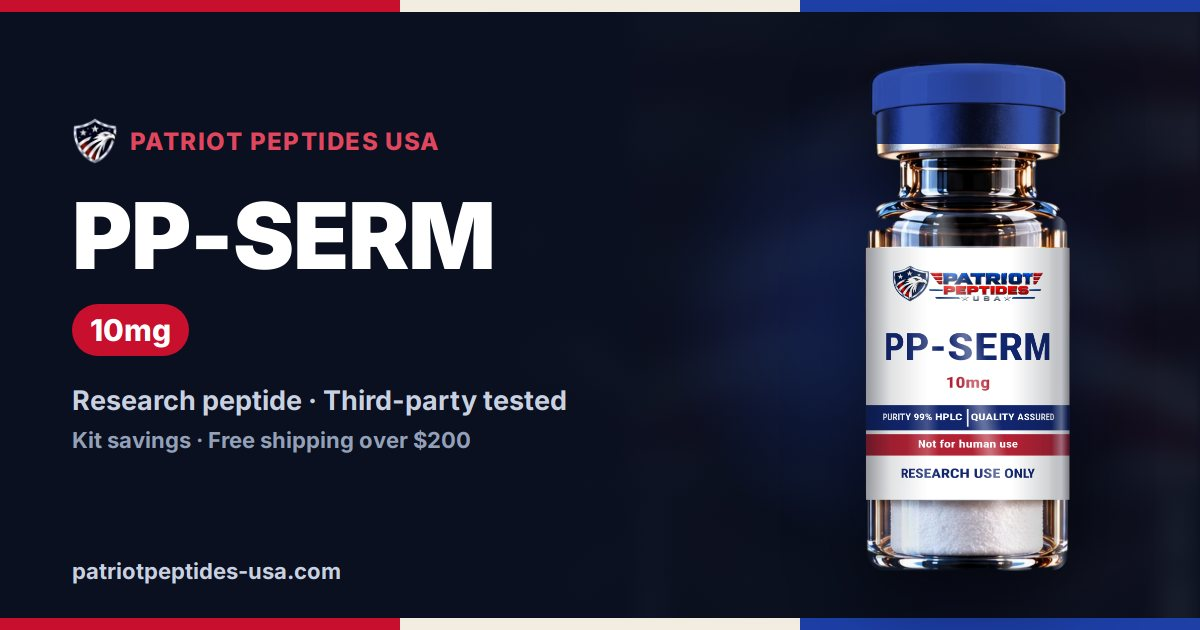
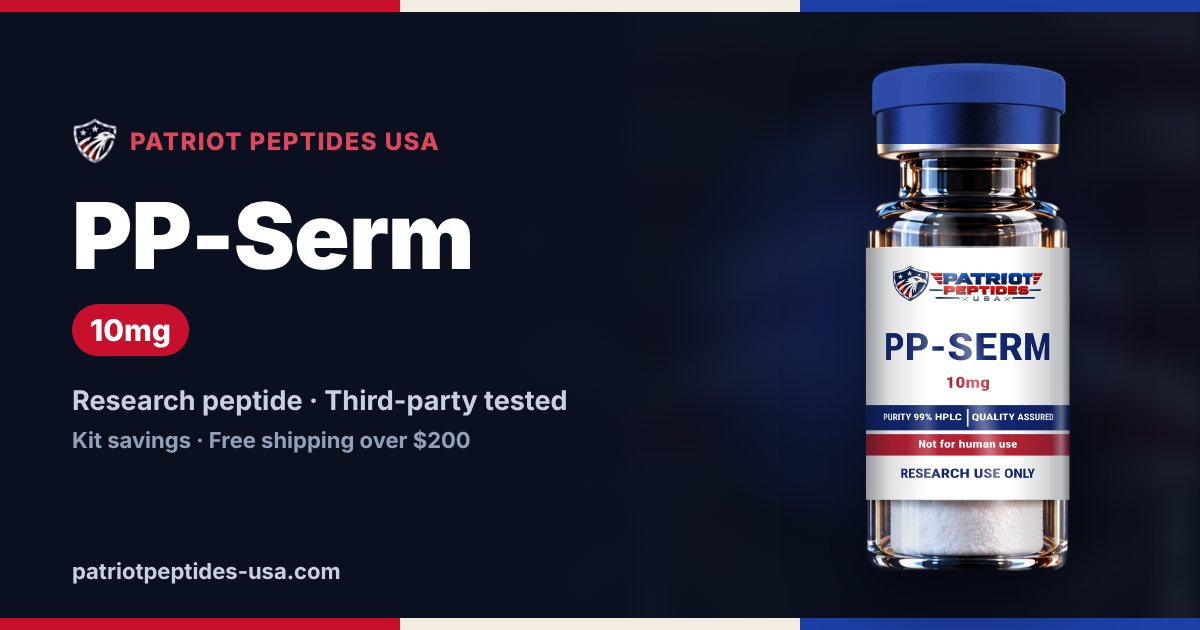
Staging: partner routing fixes
Claude-Session: https://claude.ai/code/session_016xKiGwkz8pkPX8D9aV9uTe

diff --git a/staging/pp-serm-pp-serm-10mg.html b/staging/pp-serm-pp-serm-10mg.html
@@ -1,14 +1,14 @@
 <!doctype html>
 <html lang="en"><head><meta charset="utf-8"><meta name="viewport" content="width=device-width,initial-scale=1">
-<title>PP-SERM 10mg | Patriot Peptides USA</title>
-<meta name="description" content="PP-SERM 10mg research peptide from Patriot Peptides USA. Third-party lab report on file, kit savings, free shipping over $200 and one-tap Venmo checkout. For research use only.">
+<title>PP-Serm 10mg | Patriot Peptides USA</title>
+<meta name="description" content="PP-Serm 10mg research peptide from Patriot Peptides USA. Third-party lab report on file, kit savings, free shipping over $200 and one-tap Venmo checkout. For research use only.">
 <meta name="robots" content="noindex,follow">
 <link rel="canonical" href="https://www.patriotpeptides-usa.com/product.html?key=PP-SERM-10MG">
 <meta property="og:type" content="product"><meta property="og:site_name" content="Patriot Peptides USA"><meta property="og:locale" content="en_US"><meta property="og:url" content="https://www.patriotpeptides-usa.com/pp-serm-pp-serm-10mg.html">
-<meta property="og:title" content="PP-SERM 10mg | Patriot Peptides USA"><meta property="og:description" content="PP-SERM 10mg research peptide from Patriot Peptides USA. Third-party lab report on file, kit savings, free shipping over $200 and one-tap Venmo checkout. For research use only.">
-<meta property="og:image" content="https://www.patriotpeptides-usa.com/img/share/pp-serm-pp-serm-10mg.jpg"><meta property="og:image:secure_url" content="https://www.patriotpeptides-usa.com/img/share/pp-serm-pp-serm-10mg.jpg"><meta property="og:image:type" content="image/jpeg"><meta property="og:image:width" content="1200"><meta property="og:image:height" content="630"><meta property="og:image:alt" content="PP-SERM 10mg | Patriot Peptides USA">
-<meta name="twitter:card" content="summary_large_image"><meta name="twitter:title" content="PP-SERM 10mg | Patriot Peptides USA"><meta name="twitter:description" content="PP-SERM 10mg research peptide from Patriot Peptides USA. Third-party lab report on file, kit savings, free shipping over $200 and one-tap Venmo checkout. For research use only."><meta name="twitter:image" content="https://www.patriotpeptides-usa.com/img/share/pp-serm-pp-serm-10mg.jpg">
+<meta property="og:title" content="PP-Serm 10mg | Patriot Peptides USA"><meta property="og:description" content="PP-Serm 10mg research peptide from Patriot Peptides USA. Third-party lab report on file, kit savings, free shipping over $200 and one-tap Venmo checkout. For research use only.">
+<meta property="og:image" content="https://www.patriotpeptides-usa.com/img/share/pp-serm-pp-serm-10mg.jpg"><meta property="og:image:secure_url" content="https://www.patriotpeptides-usa.com/img/share/pp-serm-pp-serm-10mg.jpg"><meta property="og:image:type" content="image/jpeg"><meta property="og:image:width" content="1200"><meta property="og:image:height" content="630"><meta property="og:image:alt" content="PP-Serm 10mg | Patriot Peptides USA">
+<meta name="twitter:card" content="summary_large_image"><meta name="twitter:title" content="PP-Serm 10mg | Patriot Peptides USA"><meta name="twitter:description" content="PP-Serm 10mg research peptide from Patriot Peptides USA. Third-party lab report on file, kit savings, free shipping over $200 and one-tap Venmo checkout. For research use only."><meta name="twitter:image" content="https://www.patriotpeptides-usa.com/img/share/pp-serm-pp-serm-10mg.jpg">
 <meta http-equiv="refresh" content="0; url=product.html?key=PP-SERM-10MG">
 <script>location.replace("product.html?key=PP-SERM-10MG" + (location.search ? "&" + location.search.slice(1) : "") + location.hash);</script>
 <style>body{margin:0;background:#0A1020;color:#F3EDE1;font:16px system-ui,sans-serif;display:grid;place-items:center;min-height:100vh}a{color:#fff}</style>
-</head><body><p>Opening <a href="product.html?key=PP-SERM-10MG">PP-SERM at Patriot Peptides USA</a>…</p></body></html>
+</head><body><p>Opening <a href="product.html?key=PP-SERM-10MG">PP-Serm at Patriot Peptides USA</a>…</p></body></html>

diff --git a/staging/pp-serm-pp-serm-20mg.html b/staging/pp-serm-pp-serm-20mg.html
@@ -1,14 +1,14 @@
 <!doctype html>
 <html lang="en"><head><meta charset="utf-8"><meta name="viewport" content="width=device-width,initial-scale=1">
-<title>PP-SERM 20mg | Patriot Peptides USA</title>
-<meta name="description" content="PP-SERM 20mg research peptide from Patriot Peptides USA. Third-party lab report on file, kit savings, free shipping over $200 and one-tap Venmo checkout. For research use only.">
+<title>PP-Serm 20mg | Patriot Peptides USA</title>
+<meta name="description" content="PP-Serm 20mg research peptide from Patriot Peptides USA. Third-party lab report on file, kit savings, free shipping over $200 and one-tap Venmo checkout. For research use only.">
 <meta name="robots" content="noindex,follow">
 <link rel="canonical" href="https://www.patriotpeptides-usa.com/product.html?key=PP-SERM-20MG">
 <meta property="og:type" content="product"><meta property="og:site_name" content="Patriot Peptides USA"><meta property="og:locale" content="en_US"><meta property="og:url" content="https://www.patriotpeptides-usa.com/pp-serm-pp-serm-20mg.html">
-<meta property="og:title" content="PP-SERM 20mg | Patriot Peptides USA"><meta property="og:description" content="PP-SERM 20mg research peptide from Patriot Peptides USA. Third-party lab report on file, kit savings, free shipping over $200 and one-tap Venmo checkout. For research use only.">
-<meta property="og:image" content="https://www.patriotpeptides-usa.com/img/share/pp-serm-pp-serm-20mg.jpg"><meta property="og:image:secure_url" content="https://www.patriotpeptides-usa.com/img/share/pp-serm-pp-serm-20mg.jpg"><meta property="og:image:type" content="image/jpeg"><meta property="og:image:width" content="1200"><meta property="og:image:height" content="630"><meta property="og:image:alt" content="PP-SERM 20mg | Patriot Peptides USA">
-<meta name="twitter:card" content="summary_large_image"><meta name="twitter:title" content="PP-SERM 20mg | Patriot Peptides USA"><meta name="twitter:description" content="PP-SERM 20mg research peptide from Patriot Peptides USA. Third-party lab report on file, kit savings, free shipping over $200 and one-tap Venmo checkout. For research use only."><meta name="twitter:image" content="https://www.patriotpeptides-usa.com/img/share/pp-serm-pp-serm-20mg.jpg">
+<meta property="og:title" content="PP-Serm 20mg | Patriot Peptides USA"><meta property="og:description" content="PP-Serm 20mg research peptide from Patriot Peptides USA. Third-party lab report on file, kit savings, free shipping over $200 and one-tap Venmo checkout. For research use only.">
+<meta property="og:image" content="https://www.patriotpeptides-usa.com/img/share/pp-serm-pp-serm-20mg.jpg"><meta property="og:image:secure_url" content="https://www.patriotpeptides-usa.com/img/share/pp-serm-pp-serm-20mg.jpg"><meta property="og:image:type" content="image/jpeg"><meta property="og:image:width" content="1200"><meta property="og:image:height" content="630"><meta property="og:image:alt" content="PP-Serm 20mg | Patriot Peptides USA">
+<meta name="twitter:card" content="summary_large_image"><meta name="twitter:title" content="PP-Serm 20mg | Patriot Peptides USA"><meta name="twitter:description" content="PP-Serm 20mg research peptide from Patriot Peptides USA. Third-party lab report on file, kit savings, free shipping over $200 and one-tap Venmo checkout. For research use only."><meta name="twitter:image" content="https://www.patriotpeptides-usa.com/img/share/pp-serm-pp-serm-20mg.jpg">
 <meta http-equiv="refresh" content="0; url=product.html?key=PP-SERM-20MG">
 <script>location.replace("product.html?key=PP-SERM-20MG" + (location.search ? "&" + location.search.slice(1) : "") + location.hash);</script>
 <style>body{margin:0;background:#0A1020;color:#F3EDE1;font:16px system-ui,sans-serif;display:grid;place-items:center;min-height:100vh}a{color:#fff}</style>
-</head><body><p>Opening <a href="product.html?key=PP-SERM-20MG">PP-SERM at Patriot Peptides USA</a>…</p></body></html>
+</head><body><p>Opening <a href="product.html?key=PP-SERM-20MG">PP-Serm at Patriot Peptides USA</a>…</p></body></html>

diff --git a/staging/pp-tesa-pp-tesa-10mg.html b/staging/pp-tesa-pp-tesa-10mg.html
@@ -1,14 +1,14 @@
 <!doctype html>
 <html lang="en"><head><meta charset="utf-8"><meta name="viewport" content="width=device-width,initial-scale=1">
-<title>PP-TESA 10mg | Patriot Peptides USA</title>
-<meta name="description" content="PP-TESA 10mg research peptide from Patriot Peptides USA. Third-party lab report on file, kit savings, free shipping over $200 and one-tap Venmo checkout. For research use only.">
+<title>PP-Tesa 10mg | Patriot Peptides USA</title>
+<meta name="description" content="PP-Tesa 10mg research peptide from Patriot Peptides USA. Third-party lab report on file, kit savings, free shipping over $200 and one-tap Venmo checkout. For research use only.">
 <meta name="robots" content="noindex,follow">
 <link rel="canonical" href="https://www.patriotpeptides-usa.com/product.html?key=PP-TESA-10MG">
 <meta property="og:type" content="product"><meta property="og:site_name" content="Patriot Peptides USA"><meta property="og:locale" content="en_US"><meta property="og:url" content="https://www.patriotpeptides-usa.com/pp-tesa-pp-tesa-10mg.html">
-<meta property="og:title" content="PP-TESA 10mg | Patriot Peptides USA"><meta property="og:description" content="PP-TESA 10mg research peptide from Patriot Peptides USA. Third-party lab report on file, kit savings, free shipping over $200 and one-tap Venmo checkout. For research use only.">
-<meta property="og:image" content="https://www.patriotpeptides-usa.com/img/share/pp-tesa-pp-tesa-10mg.jpg"><meta property="og:image:secure_url" content="https://www.patriotpeptides-usa.com/img/share/pp-tesa-pp-tesa-10mg.jpg"><meta property="og:image:type" content="image/jpeg"><meta property="og:image:width" content="1200"><meta property="og:image:height" content="630"><meta property="og:image:alt" content="PP-TESA 10mg | Patriot Peptides USA">
-<meta name="twitter:card" content="summary_large_image"><meta name="twitter:title" content="PP-TESA 10mg | Patriot Peptides USA"><meta name="twitter:description" content="PP-TESA 10mg research peptide from Patriot Peptides USA. Third-party lab report on file, kit savings, free shipping over $200 and one-tap Venmo checkout. For research use only."><meta name="twitter:image" content="https://www.patriotpeptides-usa.com/img/share/pp-tesa-pp-tesa-10mg.jpg">
+<meta property="og:title" content="PP-Tesa 10mg | Patriot Peptides USA"><meta property="og:description" content="PP-Tesa 10mg research peptide from Patriot Peptides USA. Third-party lab report on file, kit savings, free shipping over $200 and one-tap Venmo checkout. For research use only.">
+<meta property="og:image" content="https://www.patriotpeptides-usa.com/img/share/pp-tesa-pp-tesa-10mg.jpg"><meta property="og:image:secure_url" content="https://www.patriotpeptides-usa.com/img/share/pp-tesa-pp-tesa-10mg.jpg"><meta property="og:image:type" content="image/jpeg"><meta property="og:image:width" content="1200"><meta property="og:image:height" content="630"><meta property="og:image:alt" content="PP-Tesa 10mg | Patriot Peptides USA">
+<meta name="twitter:card" content="summary_large_image"><meta name="twitter:title" content="PP-Tesa 10mg | Patriot Peptides USA"><meta name="twitter:description" content="PP-Tesa 10mg research peptide from Patriot Peptides USA. Third-party lab report on file, kit savings, free shipping over $200 and one-tap Venmo checkout. For research use only."><meta name="twitter:image" content="https://www.patriotpeptides-usa.com/img/share/pp-tesa-pp-tesa-10mg.jpg">
 <meta http-equiv="refresh" content="0; url=product.html?key=PP-TESA-10MG">
 <script>location.replace("product.html?key=PP-TESA-10MG" + (location.search ? "&" + location.search.slice(1) : "") + location.hash);</script>
 <style>body{margin:0;background:#0A1020;color:#F3EDE1;font:16px system-ui,sans-serif;display:grid;place-items:center;min-height:100vh}a{color:#fff}</style>
-</head><body><p>Opening <a href="product.html?key=PP-TESA-10MG">PP-TESA at Patriot Peptides USA</a>…</p></body></html>
+</head><body><p>Opening <a href="product.html?key=PP-TESA-10MG">PP-Tesa at Patriot Peptides USA</a>…</p></body></html>

diff --git a/staging/pp-tesa-pp-tesa-20mg.html b/staging/pp-tesa-pp-tesa-20mg.html
@@ -1,14 +1,14 @@
 <!doctype html>
 <html lang="en"><head><meta charset="utf-8"><meta name="viewport" content="width=device-width,initial-scale=1">
-<title>PP-TESA 20mg | Patriot Peptides USA</title>
-<meta name="description" content="PP-TESA 20mg research peptide from Patriot Peptides USA. Third-party lab report on file, kit savings, free shipping over $200 and one-tap Venmo checkout. For research use only.">
+<title>PP-Tesa 20mg | Patriot Peptides USA</title>
+<meta name="description" content="PP-Tesa 20mg research peptide from Patriot Peptides USA. Third-party lab report on file, kit savings, free shipping over $200 and one-tap Venmo checkout. For research use only.">
 <meta name="robots" content="noindex,follow">
 <link rel="canonical" href="https://www.patriotpeptides-usa.com/product.html?key=PP-TESA-20MG">
 <meta property="og:type" content="product"><meta property="og:site_name" content="Patriot Peptides USA"><meta property="og:locale" content="en_US"><meta property="og:url" content="https://www.patriotpeptides-usa.com/pp-tesa-pp-tesa-20mg.html">
-<meta property="og:title" content="PP-TESA 20mg | Patriot Peptides USA"><meta property="og:description" content="PP-TESA 20mg research peptide from Patriot Peptides USA. Third-party lab report on file, kit savings, free shipping over $200 and one-tap Venmo checkout. For research use only.">
-<meta property="og:image" content="https://www.patriotpeptides-usa.com/img/share/pp-tesa-pp-tesa-20mg.jpg"><meta property="og:image:secure_url" content="https://www.patriotpeptides-usa.com/img/share/pp-tesa-pp-tesa-20mg.jpg"><meta property="og:image:type" content="image/jpeg"><meta property="og:image:width" content="1200"><meta property="og:image:height" content="630"><meta property="og:image:alt" content="PP-TESA 20mg | Patriot Peptides USA">
-<meta name="twitter:card" content="summary_large_image"><meta name="twitter:title" content="PP-TESA 20mg | Patriot Peptides USA"><meta name="twitter:description" content="PP-TESA 20mg research peptide from Patriot Peptides USA. Third-party lab report on file, kit savings, free shipping over $200 and one-tap Venmo checkout. For research use only."><meta name="twitter:image" content="https://www.patriotpeptides-usa.com/img/share/pp-tesa-pp-tesa-20mg.jpg">
+<meta property="og:title" content="PP-Tesa 20mg | Patriot Peptides USA"><meta property="og:description" content="PP-Tesa 20mg research peptide from Patriot Peptides USA. Third-party lab report on file, kit savings, free shipping over $200 and one-tap Venmo checkout. For research use only.">
+<meta property="og:image" content="https://www.patriotpeptides-usa.com/img/share/pp-tesa-pp-tesa-20mg.jpg"><meta property="og:image:secure_url" content="https://www.patriotpeptides-usa.com/img/share/pp-tesa-pp-tesa-20mg.jpg"><meta property="og:image:type" content="image/jpeg"><meta property="og:image:width" content="1200"><meta property="og:image:height" content="630"><meta property="og:image:alt" content="PP-Tesa 20mg | Patriot Peptides USA">
+<meta name="twitter:card" content="summary_large_image"><meta name="twitter:title" content="PP-Tesa 20mg | Patriot Peptides USA"><meta name="twitter:description" content="PP-Tesa 20mg research peptide from Patriot Peptides USA. Third-party lab report on file, kit savings, free shipping over $200 and one-tap Venmo checkout. For research use only."><meta name="twitter:image" content="https://www.patriotpeptides-usa.com/img/share/pp-tesa-pp-tesa-20mg.jpg">
 <meta http-equiv="refresh" content="0; url=product.html?key=PP-TESA-20MG">
 <script>location.replace("product.html?key=PP-TESA-20MG" + (location.search ? "&" + location.search.slice(1) : "") + location.hash);</script>
 <style>body{margin:0;background:#0A1020;color:#F3EDE1;font:16px system-ui,sans-serif;display:grid;place-items:center;min-height:100vh}a{color:#fff}</style>
-</head><body><p>Opening <a href="product.html?key=PP-TESA-20MG">PP-TESA at Patriot Peptides USA</a>…</p></body></html>
+</head><body><p>Opening <a href="product.html?key=PP-TESA-20MG">PP-Tesa at Patriot Peptides USA</a>…</p></body></html>

diff --git a/staging/js/pst-account.js b/staging/js/pst-account.js
@@ -13,7 +13,7 @@
   }
 
   /* ---------------- ACCOUNT ---------------- */
-  let user, profile, orders = [], items = {}, admin = false, mine = [];
+  let user, profile, orders = [], items = {}, admin = false, mine = [], partner = null;
   const stageOf = o => {
     const s = String(o.order_status || o.status || "pending").toLowerCase(), pay = String(o.payment_status || "pending").toLowerCase();
     const pickup = /local pickup/i.test(o.customer_notes || "");
@@ -31,6 +31,7 @@
     root.innerHTML = `<p class="muted">Loading your account…</p>`;
     profile = await P.getProfile(user);
     admin = await P.isAdmin(user).catch(() => false);
+    partner = await P.client().rpc("ppu_my_partner").then(r => r.data || null, () => null); // partners get a button to their portal
     let r = await P.client().from("orders").select("id,order_number,status,order_status,total,subtotal,shipping,tax,payment_status,payment_method,tracking_number,tracking_carrier,customer_notes,created_at,updated_at,send_pepkeep").eq("customer_id", user.id).order("created_at", { ascending: false });
     if (r.error) r = await P.client().from("orders").select("id,order_number,status,total,subtotal,shipping,tax,payment_status,tracking_number,tracking_carrier,created_at").eq("customer_id", user.id).order("created_at", { ascending: false });
     orders = r.data || []; items = {};
@@ -43,7 +44,7 @@
     legacy = await P.client().from("ppu_legacy_orders").select("woo_order,ordered_at,status,total,shipping,payment_method,items").order("ordered_at", { ascending: false }).then(r => r.data || [], () => []); // orders from the old WooCommerce store
     mine = await P.myProducts(await P.myHistory(user)).catch(() => []);
     const due = mine.filter(m => !m.inProgress && m.left <= 7).map(m => ({ days: m.left }));
-    root.innerHTML = `<div class="hello"><img src="img/pst-emblem-96.webp" width="52" height="52" alt=""><div><small>${esc(profile?.customer_number ? "Customer PP-C" + profile.customer_number : "My account")}</small><h1 class="serif" style="font-size:2.2rem;margin:0">Hi, ${esc(P.firstName(profile, user))}</h1></div><button class="btn ghost sm hsign" type="button" data-signout>Sign out</button></div>${admin ? `<a class="ownercta" href="owner.html"><span class="oc-ic">${P.icon("box", 20)}</span><span><b>Open the owner app</b><small>Orders, payments, customers, products</small></span><span class="oc-go">›</span></a>` : ""}
+    root.innerHTML = `<div class="hello"><img src="img/pst-emblem-96.webp" width="52" height="52" alt=""><div><small>${esc(profile?.customer_number ? "Customer PP-C" + profile.customer_number : "My account")}</small><h1 class="serif" style="font-size:2.2rem;margin:0">Hi, ${esc(P.firstName(profile, user))}</h1></div><button class="btn ghost sm hsign" type="button" data-signout>Sign out</button></div>${admin ? `<a class="ownercta" href="owner.html"><span class="oc-ic">${P.icon("box", 20)}</span><span><b>Open the owner app</b><small>Orders, payments, customers, products</small></span><span class="oc-go">›</span></a>` : ""}${partner && partner.status !== "paused" ? `<a class="ownercta" href="vendor.html"><span class="oc-ic">${P.icon("box", 20)}</span><span><b>Open your partner portal</b><small>${esc(partner.tier_name || "Partner")} ${partner.tier === 1 ? "· your code and earnings" : "· your pricing and orders"}</small></span><span class="oc-go">›</span></a>` : ""}
 <div class="acct"><nav class="atabs" aria-label="Account sections">${[["orders", "Orders"], ["running-low", `Running low${due.filter(d => d.days <= 7).length ? ` (${due.filter(d => d.days <= 7).length})` : ""}`], ["rewards", "Rewards"], ["profile", "Profile"], ["alerts", "Notifications"]].map(([k, t]) => `<button class="tab" type="button" data-tab="${k}">${t}</button>`).join("")}</nav><div data-pane></div></div>`;
     root.addEventListener("click", accountClick);
     showTab((location.hash || "#orders").slice(1));

diff --git a/staging/js/pst-owner.js b/staging/js/pst-owner.js
@@ -33,7 +33,12 @@
     const root = $("[data-owner]");
     me = await P.getUser();
     if (!me) { root.innerHTML = `<div class="empty"><h1 class="serif">Owner sign in</h1><p>Sign in with your admin account.</p><a class="btn primary" href="login.html?redirect=owner.html">Sign in</a></div>`; return; }
-    if (!(await P.isAdmin(me))) { root.innerHTML = `<div class="empty"><h1 class="serif">Owners only</h1><p>This page is for Patriot Peptides USA staff.</p><a class="btn ghost" href="index.html">Go to the shop</a></div>`; return; }
+    if (!(await P.isAdmin(me))) {
+      const pt = await P.client().rpc("ppu_my_partner").then(r => r.data || null, () => null); // a partner who lands here gets sent to their own portal
+      root.innerHTML = pt ? `<div class="empty"><h1 class="serif">Partner portal</h1><p>You're signed in as ${esc(me.email || "")}. This page is the owner side; your ${esc(pt.tier_name || "partner")} pricing and orders are in the partner portal.</p><a class="btn primary" href="vendor.html">Open my partner portal</a></div>`
+        : `<div class="empty"><h1 class="serif">Owners only</h1><p>This page is for Patriot Peptides USA staff. You're signed in as ${esc(me.email || "")}.</p><a class="btn ghost" href="index.html">Go to the shop</a></div>`;
+      return;
+    }
     document.body.classList.add("oapp");
     P.mountFlip?.("owner");
     root.innerHTML = `<header class="ohd"><div><small>Patriot Peptides USA</small><h1 class="serif" data-otitle>Today</h1></div><div class="ohr"><button class="btn ghost sm othb" type="button" data-othb aria-label="Switch light or dark"></button><button class="btn ghost sm" type="button" data-q="lookup" aria-label="Look up anything">${P.icon("search", 18)}</button><button class="btn ghost sm bell" type="button" data-bell data-act="inbox" aria-label="Notifications">${P.icon("bell", 18)}<i hidden>0</i></button><a class="btn ghost sm shopsw" href="index.html?from=owner" aria-label="Open the shop as a customer">${P.icon("shop", 18)}<span>Shop</span></a></div></header>

diff --git a/staging/owner.html b/staging/owner.html
@@ -34,7 +34,7 @@
 <script defer src="js/pst-owner-vibe.js?v=519"></script>
 <script defer src="js/pst-owner-release.js?v=518"></script>
 <script defer src="js/pst-owner-mkt.js?v=510"></script>
-<script defer src="js/ppu-owner-merch.js?v=2"></script><script defer src="js/ppu-owner-partners.js?v=2"></script><script defer src="js/pst-owner.js?v=523"></script><script defer src="js/pst-owner-tour.js?v=2"></script><script defer src="js/ppu-compare.js?v=3"></script><script defer src="js/pst-more-order.js?v=1"></script>
+<script defer src="js/ppu-owner-merch.js?v=2"></script><script defer src="js/ppu-owner-partners.js?v=3"></script><script defer src="js/pst-owner.js?v=524"></script><script defer src="js/pst-owner-tour.js?v=2"></script><script defer src="js/ppu-compare.js?v=3"></script><script defer src="js/pst-more-order.js?v=1"></script>
 </head>
 <body data-page="owner" data-chrome="none" data-gate="off">
 <main id="main">

diff --git a/staging/sw.js b/staging/sw.js
@@ -1,6 +1,6 @@
 /* Patriot Peptides USA service worker (v4: pages always revalidate so uploads show up right away; v3: tells open pages when an alert arrives so the bell updates). Network-first pages, cached static files, push alerts.
    Admin pages and every Supabase call always go straight to the network. */
-const V = "ppu-v97";
+const V = "ppu-v98";
 const CORE = ["offline.html", "css/pst-bl.css?v=510", "css/patriot.css?v=73", "js/pst-core.js?v=549", "img/pst-emblem-96.webp", "img/pst-emblem-192.webp", "icons/icon-192.png", "icons/badge-96.png"];
 const ADMIN = /\/(admin|admin-coa|inventory|products|promotions|reports|customers|discounts|manual-order|availability-requests|bulk-requests)\.html$/;
 self.addEventListener("install", e => { e.waitUntil(caches.open(V).then(c => c.addAll(CORE)).then(() => self.skipWaiting())); });

diff --git a/staging/js/ppu-owner-partners.js b/staging/js/ppu-owner-partners.js
@@ -5,7 +5,7 @@
 (() => {
   const P = window.PST, esc = P.esc, money = P.money;
   const $ = (s, r = document) => r.querySelector(s), $$ = (s, r = document) => [...r.querySelectorAll(s)];
-  const PORTAL = "https://www.patriotpeptides-usa.com/vendor.html";
+  const PORTAL = new URL("vendor.html", location.href).href; // same site the owner is on (staging links to staging)
   let host = null, tab = "people", tiers = [], people = [], prices = [], stats = {}, tierPick = 2, tierFilter = 0, q = "";
   const tierName = id => tiers.find(t => t.id === id)?.name || `Tier ${id}`;
   const db = () => P.client();

diff --git a/staging/register.html b/staging/register.html
@@ -20,7 +20,7 @@
 <link rel="stylesheet" href="css/pst-bl.css?v=510"><link rel="stylesheet" href="css/patriot.css?v=73">
 <script defer src="https://cdn.jsdelivr.net/npm/@supabase/supabase-js@2.45.4/dist/umd/supabase.min.js"></script>
 <script defer src="js/pst-core.js?v=549"></script>
-<script defer src="js/pst-account.js?v=524"></script>
+<script defer src="js/pst-account.js?v=525"></script>
 </head>
 <body data-page="register">
 <main id="main">

diff --git a/staging/account.html b/staging/account.html
@@ -20,7 +20,7 @@
 <link rel="stylesheet" href="css/pst-bl.css?v=510"><link rel="stylesheet" href="css/patriot.css?v=73">
 <script defer src="https://cdn.jsdelivr.net/npm/@supabase/supabase-js@2.45.4/dist/umd/supabase.min.js"></script>
 <script defer src="js/pst-core.js?v=549"></script>
-<script defer src="js/pst-account.js?v=524"></script>
+<script defer src="js/pst-account.js?v=525"></script>
 </head>
 <body data-page="account">
 <main id="main">

diff --git a/staging/testing.html b/staging/testing.html
@@ -20,7 +20,7 @@
 <link rel="stylesheet" href="css/pst-bl.css?v=510"><link rel="stylesheet" href="css/patriot.css?v=73">
 <script defer src="https://cdn.jsdelivr.net/npm/@supabase/supabase-js@2.45.4/dist/umd/supabase.min.js"></script>
 <script defer src="js/pst-core.js?v=549"></script>
-<script defer src="js/pst-account.js?v=524"></script>
+<script defer src="js/pst-account.js?v=525"></script>
 </head>
 <body data-page="testing">
 <main id="main">
